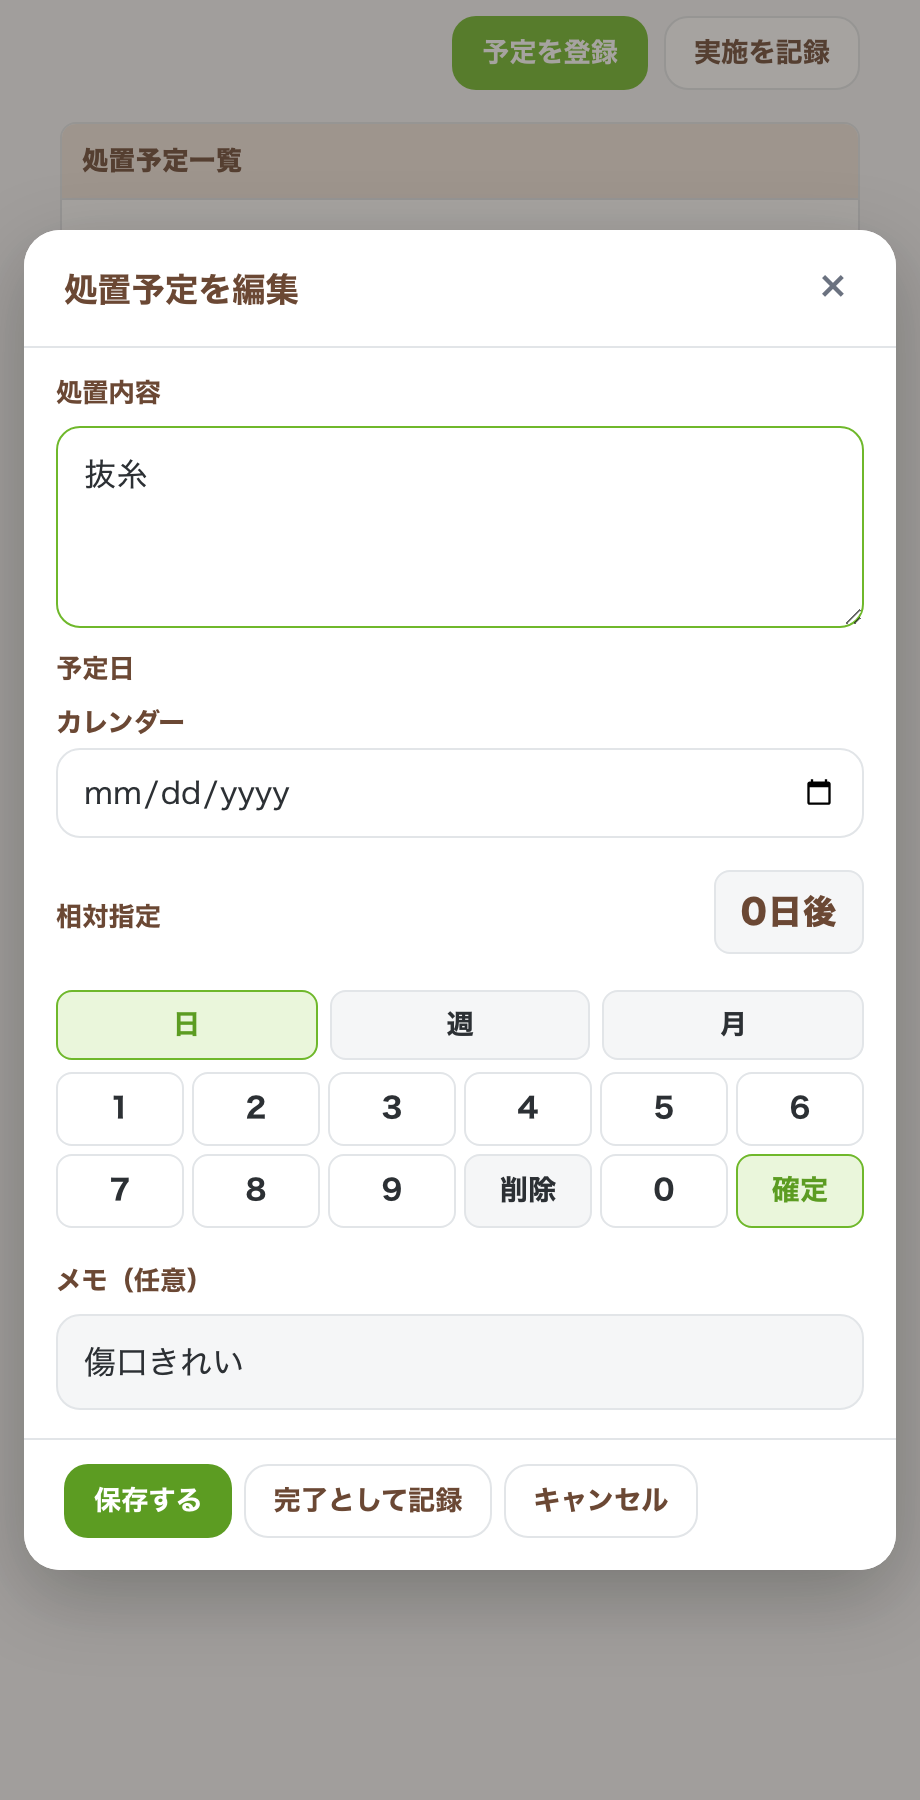
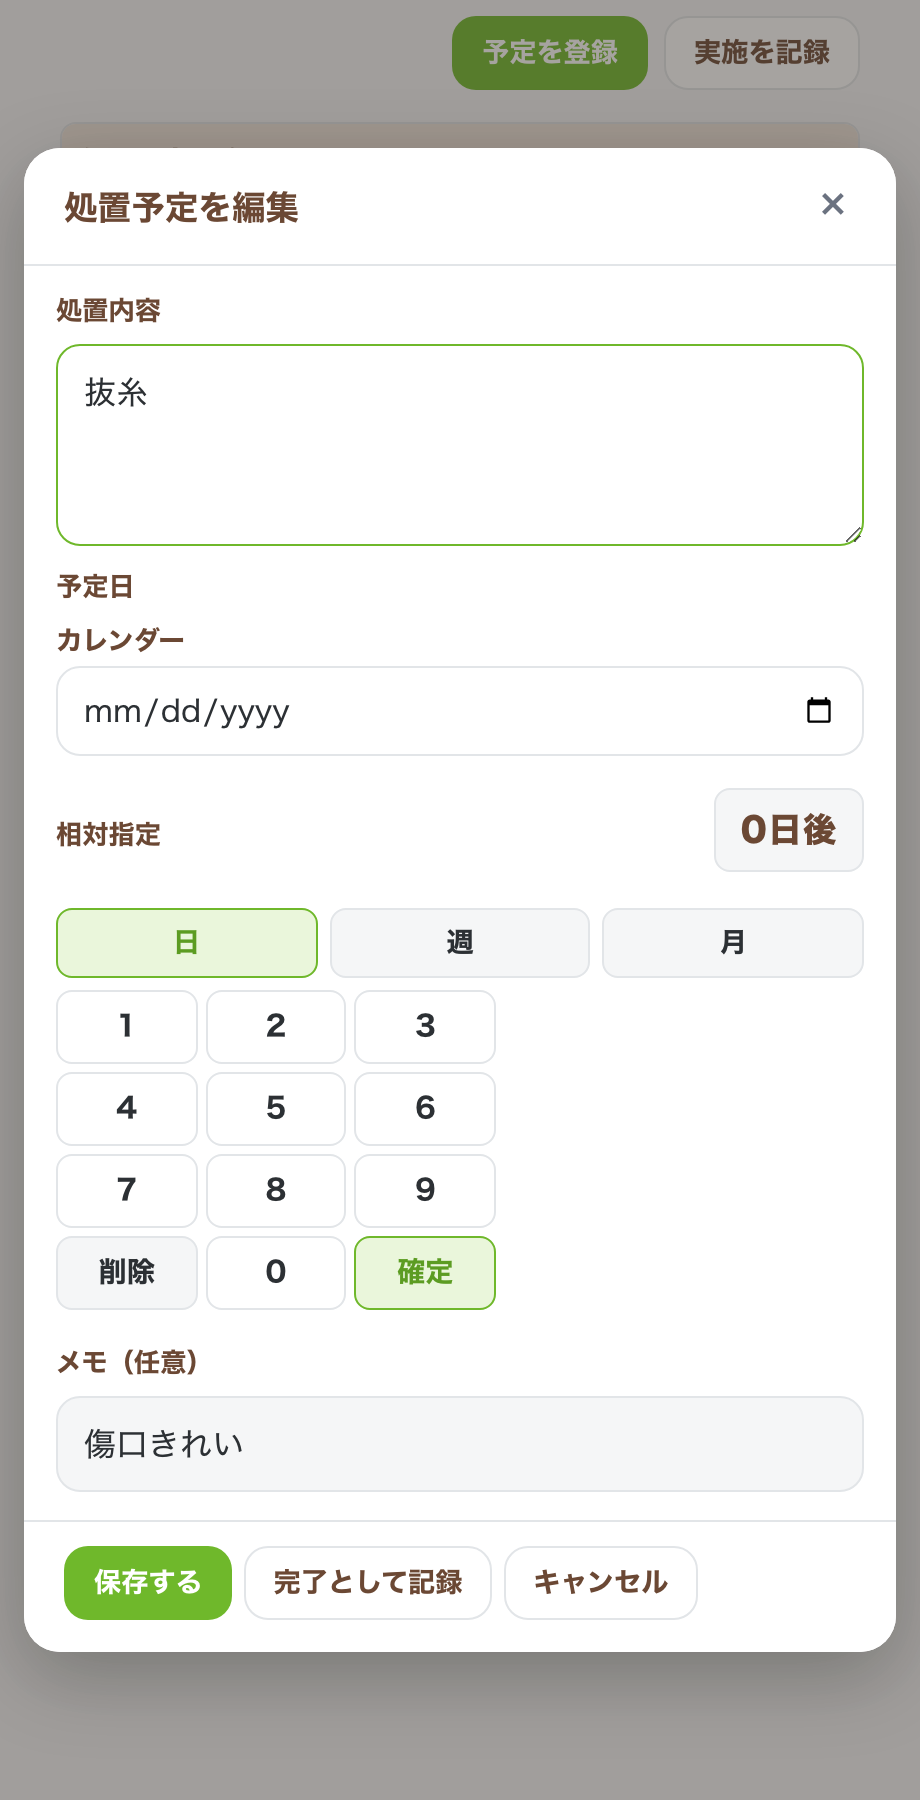
検査・処置のテンキーを3×4に戻し、処置の相対日確定と薬剤の量変更表示を直す。
コンパクト化で崩れた入力UIを機能を削らず復元し、回帰検証を更新する。

diff --git a/index.html b/index.html
@@ -1187,10 +1187,16 @@
 
       <div class="field" id="med-event-change-options" hidden>
         <span class="label">頻度・量（任意）</span>
-        <label class="exam-other-check">
-          <input type="checkbox" id="med-event-freq-check" />
-          <span>回数を変更</span>
-        </label>
+        <div class="med-event-change-toggles">
+          <label class="exam-other-check">
+            <input type="checkbox" id="med-event-freq-check" />
+            <span>回数を変更</span>
+          </label>
+          <label class="exam-other-check">
+            <input type="checkbox" id="med-event-amount-check" />
+            <span>量を変更</span>
+          </label>
+        </div>
         <div id="med-event-freq-block" hidden>
           <div class="med-linear-picker med-linear-picker--freq" id="med-event-freq-picker" aria-label="投与頻度の選択">
             <div class="med-linear-picker__col" data-col="mode">
@@ -1238,10 +1244,6 @@
           </div>
         </div>
 
-        <label class="exam-other-check">
-          <input type="checkbox" id="med-event-amount-check" />
-          <span>量を変更</span>
-        </label>
         <div id="med-event-amount-block" class="med-amount-block" hidden>
           <div class="med-linear-picker__list med-amount-presets" id="med-event-amount-presets" role="listbox" aria-label="量変更の選択肢"></div>
           <label class="exam-other-check">

diff --git a/css/style.css b/css/style.css
@@ -1004,7 +1004,7 @@ html.is-unlocked .app {
     grid-template-columns: 1fr;
   }
 
-  /* 縦積み時は実施記録を先に見せ、相対指定は横一列＋横長テンキーで高さを抑える */
+  /* 縦積み時は実施記録を先に見せ、単位は横並びにして高さを抑える（テンキーは3×4のまま） */
   .exam-plan-section--done {
     order: -1;
   }
@@ -2120,9 +2120,10 @@ html.is-unlocked .app {
   max-width: 280px;
 }
 
+/* コンパクト化はキーの余白だけ。3×4 グリッドは維持する */
 .numpad.numpad--compact {
-  grid-template-columns: repeat(6, minmax(0, 1fr));
-  max-width: none;
+  grid-template-columns: repeat(3, 1fr);
+  max-width: 220px;
   gap: 4px;
 }
 
@@ -3134,6 +3135,17 @@ select.input {
   grid-template-columns: minmax(0, 1fr) minmax(9.5rem, 11rem);
   gap: 10px 12px;
   align-items: start;
+  margin: 0;
+}
+
+.med-event-change-toggles {
+  display: flex;
+  flex-wrap: wrap;
+  gap: 8px 16px;
+  margin: 2px 0 8px;
+}
+
+.med-event-change-toggles .exam-other-check {
   margin: 0;
 }
 

diff --git a/js/procedures-ui.js b/js/procedures-ui.js
@@ -571,6 +571,10 @@ function closePlanModal() {
 
 async function handlePlanSave() {
   const content = (planContent?.value || "").trim();
+  const dueBuffered = Number(state.dueRelativeBuffer);
+  if (state.dueRelativeBuffer !== "" && dueBuffered >= 1) {
+    applyDueRelativeToCalendar();
+  }
   const dueDate = planDueDate?.value || "";
   const note = (planNote?.value || "").trim();
 
@@ -640,6 +644,10 @@ async function handlePlanCompleteFromModal() {
   // モーダル上の最新入力を反映してから完了
   const content = (planContent?.value || "").trim();
   const note = (planNote?.value || "").trim();
+  const dueBuffered = Number(state.dueRelativeBuffer);
+  if (state.dueRelativeBuffer !== "" && dueBuffered >= 1) {
+    applyDueRelativeToCalendar();
+  }
   const dueDate = planDueDate?.value || "";
   if (!content) {
     deps.showError(planError, "処置内容を入力してください。");

diff --git a/service-worker.js b/service-worker.js
@@ -8,7 +8,7 @@
 //
 // ※ CACHE_VERSION を上げるときは js/app-version.js の APP_VERSION / CACHE_LABEL も合わせて更新する。
 
-const CACHE_VERSION = "v119";
+const CACHE_VERSION = "v120";
 const CACHE_NAME = `nyuta-karte-log-${CACHE_VERSION}`;
 
 const APP_SHELL_FILES = [

diff --git a/js/app-version.js b/js/app-version.js
@@ -1,3 +1,3 @@
 // アプリの表示用バージョン。Service Worker の CACHE_VERSION と合わせて更新する。
-export const APP_VERSION = "1.9.76";
-export const CACHE_LABEL = "v119";
+export const APP_VERSION = "1.9.77";
+export const CACHE_LABEL = "v120";
